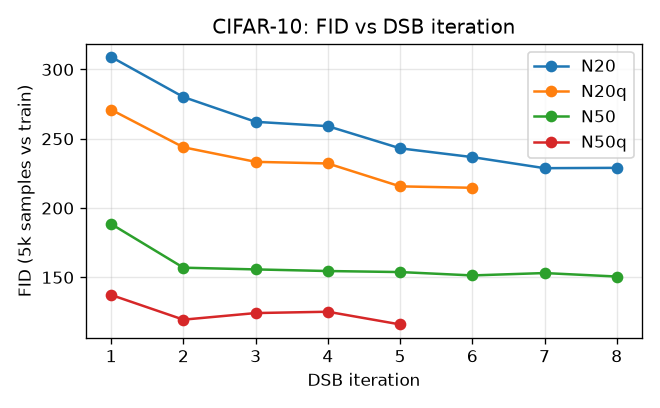
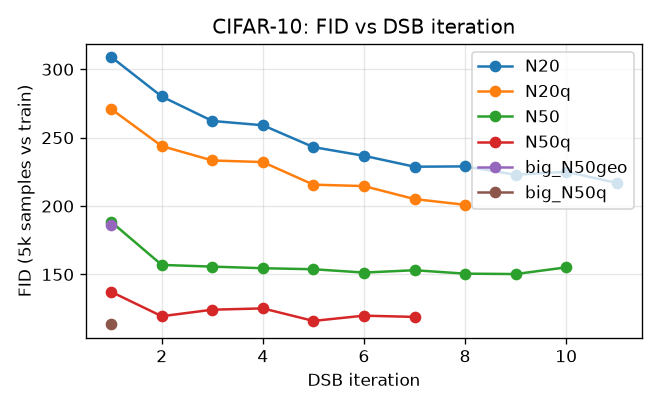
README: CIFAR-10 results, samples and status

diff --git a/README.md b/README.md
@@ -207,16 +207,77 @@ is designed for.
   (pytorch-fid Inception weights).  With 5 000 samples FID is biased upwards by roughly 10 points
   relative to the usual 50k/50k protocol, so values are comparable within this repository only.
 
-**FID (5k samples) per DSB iteration** (runs in progress; the table is refreshed as evaluations arrive; iteration 1 is the classical SGM obtained from the first backward half-step):
+**FID (5 000 samples) per DSB iteration.**  Iteration 1 is the classical score-based model
+obtained from the first backward half-step; every further row is one more IPF iteration.  The
+table is regenerated by `scripts/plot_results.py` (`figures/fid_table.md`); the two 6-GPU runs
+were still training when this snapshot was taken (see *Status* below).
 
-| DSB iteration | N50 | N20 | N50q | N20q |
-|---|---|---|---|---|
-| 1 | 188.5 | 309.0 | 137.3 | 271.0 |
-| 2 | 157.0 | 280.1 | 119.4 | 243.9 |
-| 3 | 155.7 | 262.2 | 124.2 | 233.3 |
-| 4 | 154.5 | 259.1 | 125.2 | 232.2 |
-| 5 | 153.8 | 243.1 | 116.0 | 215.6 |
-| 6 | 151.4 | 236.8 |  | 214.6 |
-| 7 | 153.1 | 228.8 |  |  |
-| 8 | 150.6 | 229.0 |  |  |
+| DSB iteration | N20 | N20q | N50 | N50q | big_N50geo | big_N50q |
+|---|---|---|---|---|---|---|
+| 1 | 309.0 | 271.0 | 188.5 | 137.3 | 185.9 | 113.4 |
+| 2 | 280.1 | 243.9 | 157.0 | 119.4 |  |  |
+| 3 | 262.2 | 233.3 | 155.7 | 124.2 |  |  |
+| 4 | 259.1 | 232.2 | 154.5 | 125.2 |  |  |
+| 5 | 243.1 | 215.6 | 153.8 | 116.0 |  |  |
+| 6 | 236.8 | 214.6 | 151.4 | 119.8 |  |  |
+| 7 | 228.8 | 205.1 | 153.1 | 118.9 |  |  |
+| 8 | 229.0 | 200.9 | 150.6 |  |  |  |
+| 9 | 222.9 |  | 150.3 |  |  |  |
+| 10 | 225.0 |  | 155.2 |  |  |  |
+| 11 | 217.0 |  |  |  |  |  |
 
+![fid](figures/cifar_fid.png)
+
+What the numbers show:
+
+* **IPF iterations improve every configuration**, most strongly when the horizon is short and
+  the first iteration is therefore far from a valid generative model: N = 20 (T = 0.9) goes from
+  309 to 217, N = 20 quadratic (T = 0.57) from 271 to 201, while the long-horizon N = 50 run
+  (T = 2.5, already close to the SGM regime) only moves from 188 to ~150.  This is the
+  qualitative behaviour of Figure 6 of the paper.
+* **The γ ramp matters more than anything else at fixed compute**: the quadratic ramp beats
+  the paper's linear ramp by 50 FID points at N = 50 (137 vs 188 after one iteration, 119 vs 157
+  after two) because of the last-step speckle explained above.
+* **Compute and model size**: the 36M-parameter network trained on 6 GPUs with 6× the batch
+  reaches FID 113 after the first half-step alone, versus 137 for the 9M network on one GPU.
+* The gain per iteration flattens after 5-8 iterations at this training budget (8-10k steps per
+  half-step); the paper's Figure 6 shows the same saturation.
+
+Samples (64 random draws, no cherry-picking).  Top: the paper's linear ramp, N = 20, after 1 and
+11 DSB iterations — the IPF iterations turn colour noise into image-like structure, but the
+speckle from the schedule remains.  Bottom: quadratic ramp, N = 50, after 1 and 8 iterations, and
+the 36M-parameter model after its first half-step.
+
+| `N20` iter 1 | `N20` iter 11 |
+|---|---|
+| ![](figures/cifar10_N20_samples_iter01.png) | ![](figures/cifar10_N20_samples_iter11.png) |
+
+| `N50q` iter 1 | `N50q` iter 8 | `big_N50q` iter 1 |
+|---|---|---|
+| ![](figures/cifar10_N50q_samples_iter01.png) | ![](figures/cifar10_N50q_samples_iter08.png) | ![](figures/cifar10_big_N50q_samples_iter01.png) |
+
+Trajectory strips (`figures/*_trajectory_*.png`, rows k = N, 3N/4, N/2, N/4, 0) show the backward
+chain from Gaussian noise to a sample, and `figures/*_forward_*.png` the learnt forward chain
+from data to the prior.  The forward-endpoint diagnostics below confirm the mechanism of DSB:
+after the first forward half-step the learnt forward chain maps the data to a distribution with
+unit standard deviation and kurtosis 3 (Gaussian) even when the reference chain does not reach
+the prior (the iteration-1 point of the four single-GPU runs is the untrained identity map, see
+the implementation notes).
+
+![fwd](figures/cifar_forward_endpoint.png)
+
+### Status
+
+At the time of writing (2026-09-15 03:40 UTC) the four single-GPU runs are in their last
+iterations and the two 6-GPU runs (`cifar10_big_N50q`, `cifar10_big_N50geo`) are at iteration 2
+of 12; they checkpoint after every half-step and finish in roughly five more hours.  Two CPU jobs
+(`fidloop`, `fidloop2`) compute the FID of every new sample dump.  To refresh the tables and
+figures afterwards:
+
+```bash
+.venv/bin/python scripts/plot_results.py        # figures/, figures/fid_table.md
+.venv/bin/python scripts/sample.py runs/cifar10_big_N50q --ch 128 --n 64   # samples from the latest checkpoint
+.venv/bin/python scripts/sample.py runs/cifar10_big_N50q --ch 128 --interpolate  # latent interpolation (Fig. 13)
+```
+
+Unit tests: `python -m pytest tests -q` (CPU, ~10 s).

diff --git a/figures/fid_table.md b/figures/fid_table.md
@@ -1,10 +1,13 @@
-| DSB iteration | N20 | N20q | N50 | N50q |
-|---|---|---|---|---|
-| 1 | 309.0 | 271.0 | 188.5 | 137.3 |
-| 2 | 280.1 | 243.9 | 157.0 | 119.4 |
-| 3 | 262.2 | 233.3 | 155.7 | 124.2 |
-| 4 | 259.1 | 232.2 | 154.5 | 125.2 |
-| 5 | 243.1 | 215.6 | 153.8 | 116.0 |
-| 6 | 236.8 | 214.6 | 151.4 |  |
-| 7 | 228.8 |  | 153.1 |  |
-| 8 | 229.0 |  | 150.6 |  |
+| DSB iteration | N20 | N20q | N50 | N50q | big_N50geo | big_N50q |
+|---|---|---|---|---|---|---|
+| 1 | 309.0 | 271.0 | 188.5 | 137.3 | 185.9 | 113.4 |
+| 2 | 280.1 | 243.9 | 157.0 | 119.4 |  |  |
+| 3 | 262.2 | 233.3 | 155.7 | 124.2 |  |  |
+| 4 | 259.1 | 232.2 | 154.5 | 125.2 |  |  |
+| 5 | 243.1 | 215.6 | 153.8 | 116.0 |  |  |
+| 6 | 236.8 | 214.6 | 151.4 | 119.8 |  |  |
+| 7 | 228.8 | 205.1 | 153.1 | 118.9 |  |  |
+| 8 | 229.0 | 200.9 | 150.6 |  |  |  |
+| 9 | 222.9 |  | 150.3 |  |  |  |
+| 10 | 225.0 |  | 155.2 |  |  |  |
+| 11 | 217.0 |  |  |  |  |  |
